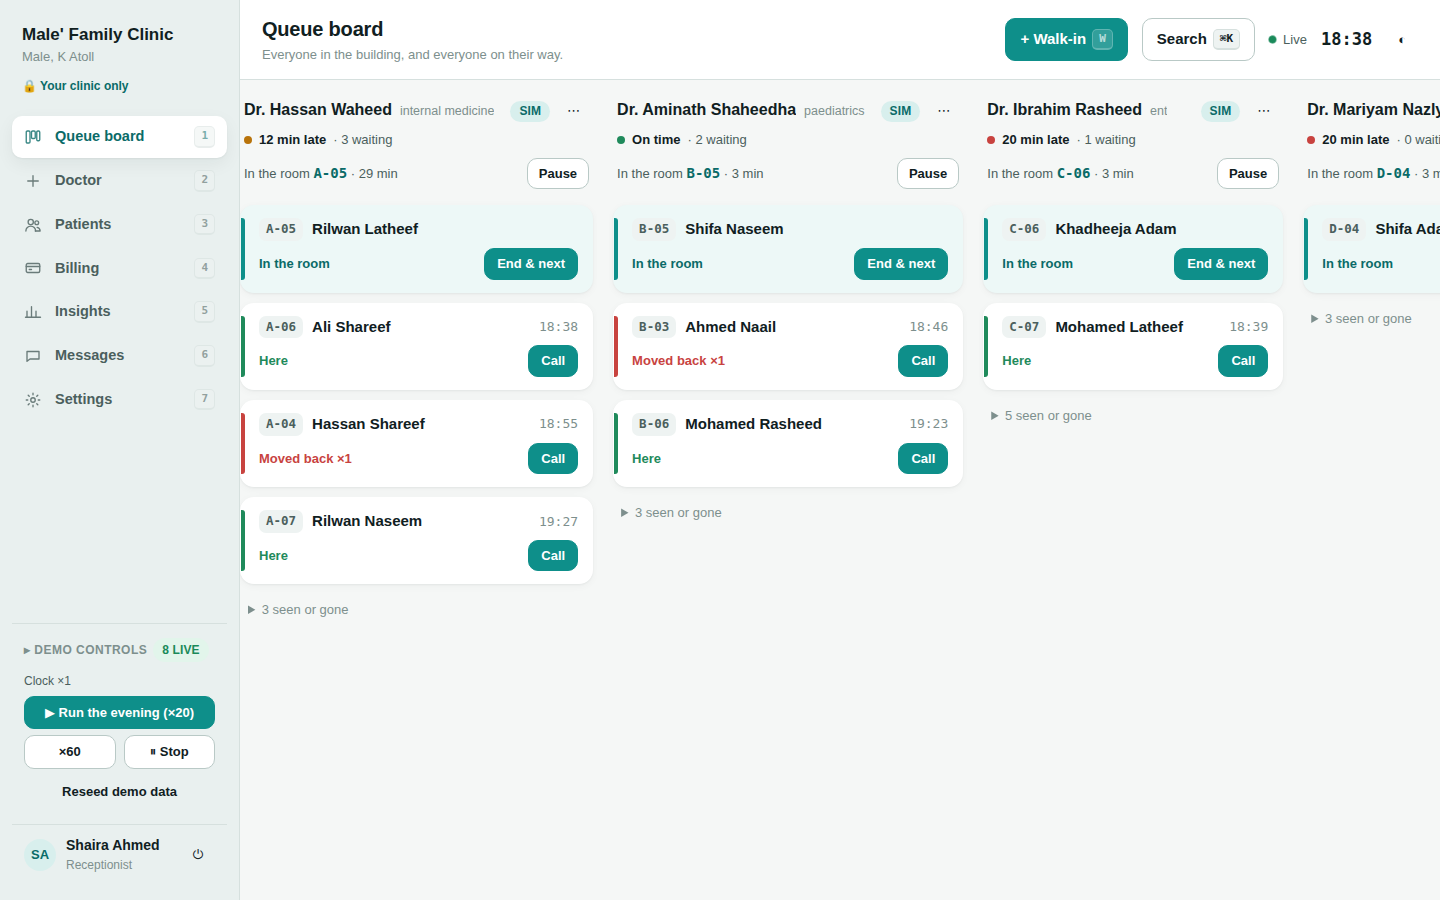
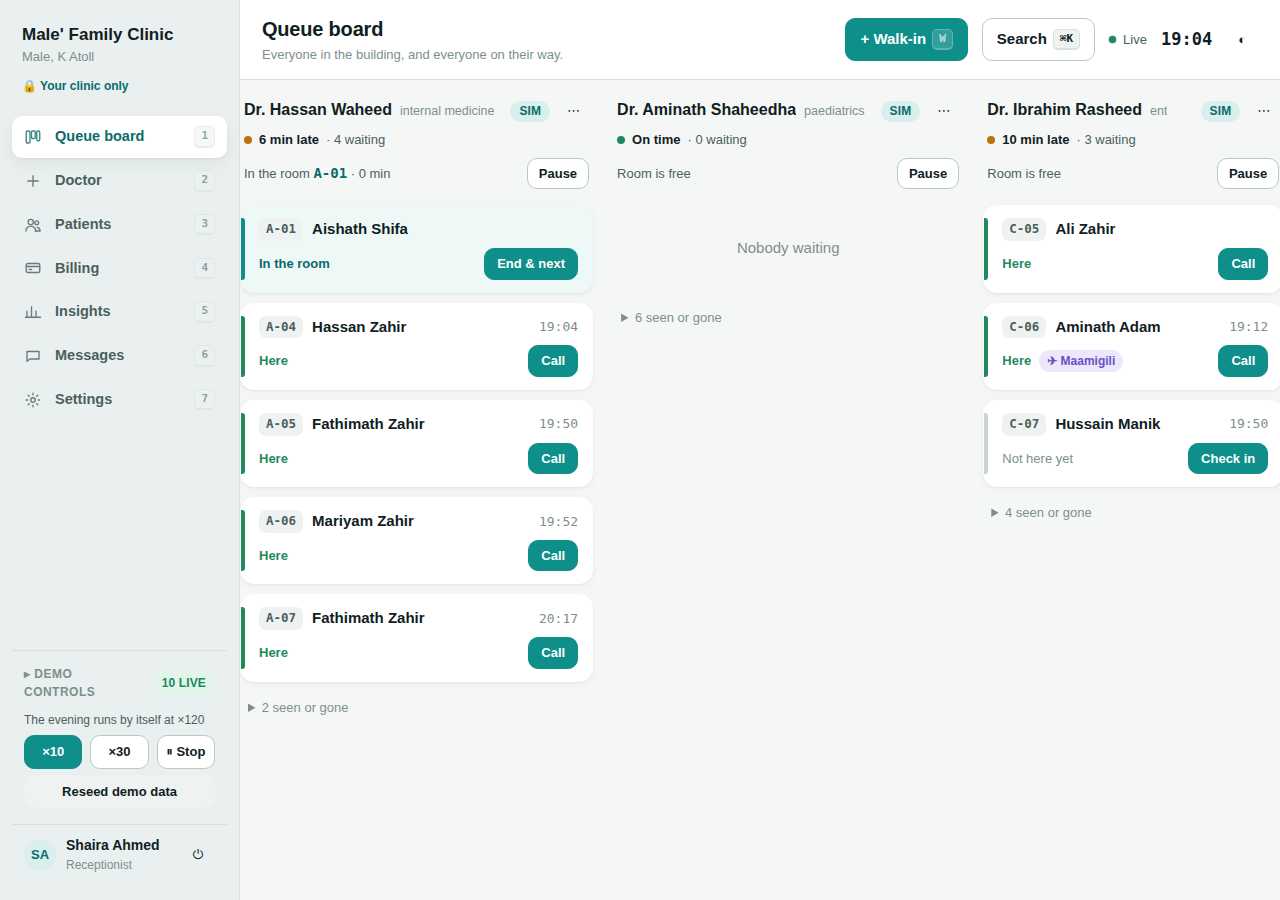
Home page is about the business; the CRM and patient app open in their own tabs
The live queue widget and demo instructions leave the home page, which
now carries only the product information, a board screenshot, and links.
The clinic CRM and patient app open in separate browser tabs from the
nav, the hero and the footer, and the hero no longer has a button that
jumps the page to the contact form.

Claude-Session: https://claude.ai/code/session_0191mKL6YydQCWz97Th3iUBX

diff --git a/web/site/index.html b/web/site/index.html
@@ -24,10 +24,11 @@
     <a href="#engine">How it works</a>
     <a href="#pricing">Pricing</a>
     <a href="#api">API</a>
+    <a href="#demo">Contact</a>
   </nav>
   <div class="nav-cta">
-    <a class="btn ghost" href="/app/">Patient app</a>
-    <a class="btn primary" href="/clinic/">Clinic sign in</a>
+    <a class="btn ghost" href="/app/" target="_blank" rel="noopener">Patient app <span class="ext" aria-hidden="true">↗</span></a>
+    <a class="btn primary" href="/clinic/" target="_blank" rel="noopener">Clinic CRM <span class="ext" aria-hidden="true">↗</span></a>
   </div>
 </header>
 
@@ -37,21 +38,16 @@
     <h1>Nobody should sit in a lobby just to find out how long they'll wait.</h1>
     <p class="lede"><strong>Vaguthu is a queue system for clinics.</strong> Reception runs the day from a private dashboard, and every patient gets a free app that shows the queue live and tells them, on their phone, when to leave for the clinic. Fewer people in the waiting room. Fewer "how much longer?" at the desk. Doctors who can see their own day.</p>
     <div class="cta-row">
-      <a class="btn primary lg" href="#demo">Book a demo</a>
-      <a class="btn lg" href="/clinic/">Try the dashboard</a>
+      <a class="btn primary lg" href="/clinic/" target="_blank" rel="noopener">Open the clinic CRM <span class="ext" aria-hidden="true">↗</span></a>
+      <a class="btn lg" href="/app/" target="_blank" rel="noopener">Open the patient app <span class="ext" aria-hidden="true">↗</span></a>
     </div>
-    <p class="fine">Working demo. The queue on the right is a real clinic evening running right now, on its own. Sign in with the accounts shown on the sign-in page to work it yourself.</p>
+    <p class="fine">Each opens in its own tab. Demo sign-ins are listed on the CRM sign-in page.</p>
   </div>
 
-  <div class="hero-live" id="live" aria-live="polite">
-    <div class="live-head">
-      <span class="live-dot"></span>
-      <span id="live-title">Connecting to a live clinic…</span>
-      <span class="mono" id="live-clock"></span>
-    </div>
-    <div class="live-cols" id="live-cols"></div>
-    <p class="live-note">A real queue from the demo clinic, updating as the engine recalculates. Token codes only — never a name.</p>
-  </div>
+  <figure class="hero-shot">
+    <img src="/img/board.png" alt="The Vaguthu queue board: one column per doctor, each patient a card with a single next action">
+    <figcaption>The queue board, as reception sees it.</figcaption>
+  </figure>
 </section>
 
 <section class="band what" id="what">
@@ -256,7 +252,7 @@ POST /v1/webhook_endpoints
 <footer class="foot">
   <div class="wrap">
     <span><strong>Vaguthu</strong> <span class="thaana" lang="dv" dir="rtl">ވަގުތު</span> · <em>time</em>, in Dhivehi. A working name.</span>
-    <nav><a href="/clinic/">Clinic sign in</a><a href="/app/">Patient app</a><a href="/docs/01-market-context.md">Documentation</a><a href="/docs/02-prd-b2b-clinic-command-center.md">Product requirements</a></nav>
+    <nav><a href="/clinic/" target="_blank" rel="noopener">Clinic CRM ↗</a><a href="/app/" target="_blank" rel="noopener">Patient app ↗</a><a href="/docs/01-market-context.md">Documentation</a><a href="/docs/02-prd-b2b-clinic-command-center.md">Product requirements</a></nav>
   </div>
 </footer>
 

diff --git a/web/site/site.js b/web/site/site.js
@@ -1,61 +1,4 @@
-/* The hero shows a real queue from the demo clinic, anonymised. If the
-   server is not in demo mode the widget simply says so. */
-const cols = document.getElementById('live-cols');
-const title = document.getElementById('live-title');
-const clock = document.getElementById('live-clock');
-const dot = document.querySelector('.live-dot');
-
-const STATE = { booked: 'waiting', arrived: 'here', called: 'called', penalised: 'moved back' };
-
-function el(tag, cls, text) {
-  const n = document.createElement(tag);
-  if (cls) n.className = cls;
-  if (text != null) n.textContent = text;
-  return n;
-}
-
-function statusOf(s) {
-  if (s.state === 'ended') return ['finished', ''];
-  if (s.state === 'paused') return ['paused', 'warn'];
-  if (s.state === 'running') return [s.lateMinutes > 5 ? `${s.lateMinutes} min late` : 'on time', s.lateMinutes > 15 ? 'danger' : s.lateMinutes > 5 ? 'warn' : 'ok'];
-  return ['not started', ''];
-}
-
-async function refresh() {
-  try {
-    const r = await fetch('/api/public/showcase', { cache: 'no-store' });
-    if (!r.ok) throw new Error('offline');
-    const d = await r.json();
-    title.textContent = d.live ? `${d.clinic} — live` : `${d.clinic} — before the evening session`;
-    clock.textContent = d.clock;
-    dot.classList.toggle('off', !d.live);
-    cols.replaceChildren(...d.sessions.slice(0, 4).map((s) => {
-      const col = el('div', 'live-col');
-      const doc = el('div', 'doc'); doc.append(el('span', null, s.doctor), el('span', null, s.specialty)); col.append(doc);
-      const [label, cls] = statusOf(s);
-      const st = el('div', `st ${cls}`); st.append(el('i'), el('span', null, `${label} · ${s.waiting} waiting`)); col.append(st);
-      if (s.nowServing) {
-        const t = el('div', 'live-tok room'); t.append(el('span', 'mono', s.nowServing.display), el('span', null, 'in the room'), el('span', 'win mono', `${s.nowServing.minutes} min`)); col.append(t);
-      }
-      let leaveShown = false;
-      for (const n of s.next.slice(0, s.nowServing ? 2 : 3)) {
-        const t = el('div', `live-tok ${n.state}`);
-        t.append(el('span', 'mono', n.display));
-        const showLeave = n.leaveNow && n.state === 'booked' && !leaveShown;
-        if (showLeave) { leaveShown = true; t.append(el('span', 'state go', 'leave now')); }
-        else t.append(el('span', 'state', STATE[n.state] || n.state));
-        t.append(el('span', 'win mono', n.window));
-        col.append(t);
-      }
-      return col;
-    }));
-  } catch {
-    title.textContent = 'Live queue unavailable right now';
-    dot.classList.add('off');
-  }
-}
-refresh();
-setInterval(refresh, 5000);
+/* The home page is information about the business; the apps live in their own tabs. */
 
 // Demo request form.
 const form = document.getElementById('lead');

diff --git a/web/site/site.css b/web/site/site.css
@@ -76,6 +76,10 @@ a { color: var(--teal-deep); }
 .hero .lede { margin-top: 18px; max-width: 54ch; }
 .cta-row { display: flex; gap: 10px; flex-wrap: wrap; margin: 26px 0 12px; }
 
+.hero-shot { margin: 0; }
+.hero-shot img { display: block; width: 100%; height: auto; border-radius: 16px; border: 1px solid var(--line); box-shadow: 0 1px 2px rgba(6,44,49,.05), 0 24px 60px -30px rgba(6,44,49,.35); background: var(--surface); }
+.hero-shot figcaption { font-size: 12.5px; color: var(--ink-3); margin: 10px 4px 0; }
+.btn .ext { font-size: .85em; opacity: .75; }
 .hero-live { background: var(--surface); border: 1px solid var(--line); border-radius: 20px; box-shadow: 0 1px 2px rgba(6,44,49,.05), 0 20px 50px -20px rgba(6,44,49,.25); padding: 16px; }
 .live-head { display: flex; align-items: center; gap: 9px; font-weight: 700; font-size: 14px; padding: 2px 4px 12px; }
 .live-head .mono { margin-left: auto; color: var(--ink-3); font-weight: 500; }
